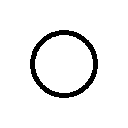
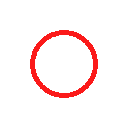
Add marks to updateImages

Changed region(s): [[0.2188, 0.2188, 0.7812, 0.7812]]

diff --git a/src/main/java/pr_se/gogame/view_controller/BoardPane.java b/src/main/java/pr_se/gogame/view_controller/BoardPane.java
@@ -876,11 +876,14 @@ public class BoardPane extends GridPane {
             WHITE_STONE.setImage(stones[1]);
             WHITE_HOVER.setImage(stones[1]);
 
-            CIRCLE_MARK_ON_BLACK.setImage(circleMarks[0]);
+            CIRCLE_MARK_ON_EMPTY.setImage(circleMarks[0]);
+            CIRCLE_MARK_ON_BLACK.setImage(circleMarks[2]);
             CIRCLE_MARK_ON_WHITE.setImage(circleMarks[1]);
-            TRIANGLE_MARK_ON_BLACK.setImage(triangleMarks[0]);
+            TRIANGLE_MARK_ON_EMPTY.setImage(triangleMarks[0]);
+            TRIANGLE_MARK_ON_BLACK.setImage(triangleMarks[2]);
             TRIANGLE_MARK_ON_WHITE.setImage(triangleMarks[1]);
-            SQUARE_MARK_ON_BLACK.setImage(squareMarks[0]);
+            SQUARE_MARK_ON_EMPTY.setImage(squareMarks[0]);
+            SQUARE_MARK_ON_BLACK.setImage(squareMarks[2]);
             SQUARE_MARK_ON_WHITE.setImage(squareMarks[1]);
         }
 
